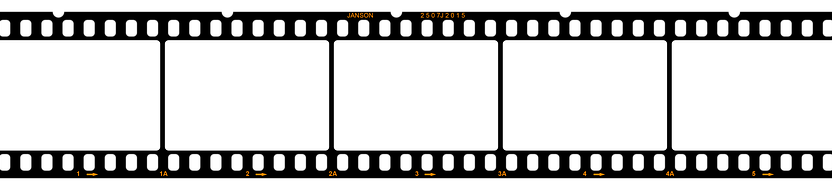
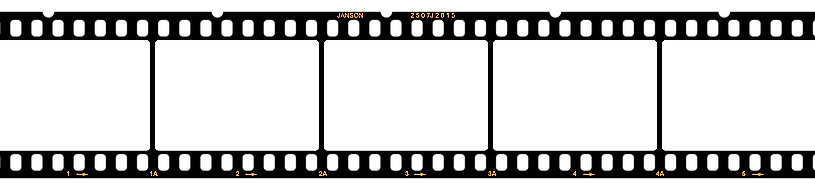
Startseite

Changed region(s): [[0.0, 0.0312, 1.0, 0.9375]]

diff --git a/css/style.css b/css/style.css
@@ -55,6 +55,10 @@ header img{
 
 
 /* Content */
+body{
+    font-family: 'Lato', sans-serif;
+    margin: 0;
+}
 main{
     margin: 300px 150px 20px 150px;
 }
@@ -67,9 +71,6 @@ footer{
 h1 {
     font-size: 45px
 }
-body{
-    font-family: 'Lato', sans-serif;
-}
 
 /* Bilder */
 .kamera{
@@ -78,9 +79,12 @@ body{
     width: 200px; 
 }
 .films{
-    display: block;
-    margin: 0 auto;
-    width:100%;
+    float: left;
+    width: 50%    
+}
+.films2{
+    float: right; 
+    width: 50%;
 }
 video{
     display:block;
@@ -90,10 +94,12 @@ video{
     float:left;
     width: 250px;
     margin-right: 25px;
+    margin-bottom: 15px;
 }
 .rechts{
     float: right;
     height: 302px;
+    margin-bottom: 15px;
 }
 .marketing{
     margin-left: 275px;

diff --git a/index.html b/index.html
@@ -56,8 +56,8 @@
             </nav>
     </header>
     <main>
-        <img src="images/kamera.png" alt="Vektorgrafik einer Kamera" class="kamera"/>
         <img src="images/filmstreifen.png" alt="Filmstreifen" class="films"/>
+        <img src="images/filmstreifen.png" alt="Filmstreifen" class="films2"/>
         Im ÜK 403 lernte man wie man ein Multimediaprodukt erstellt. In unserem Fall haben wir enen Werbefilm für einen bestimmten Auftragsgeber gedreht, geschnitten und bearbeitet.
     <video src="images/Werbefilm.webp"
         poster="images/rheinfall.jpg"
